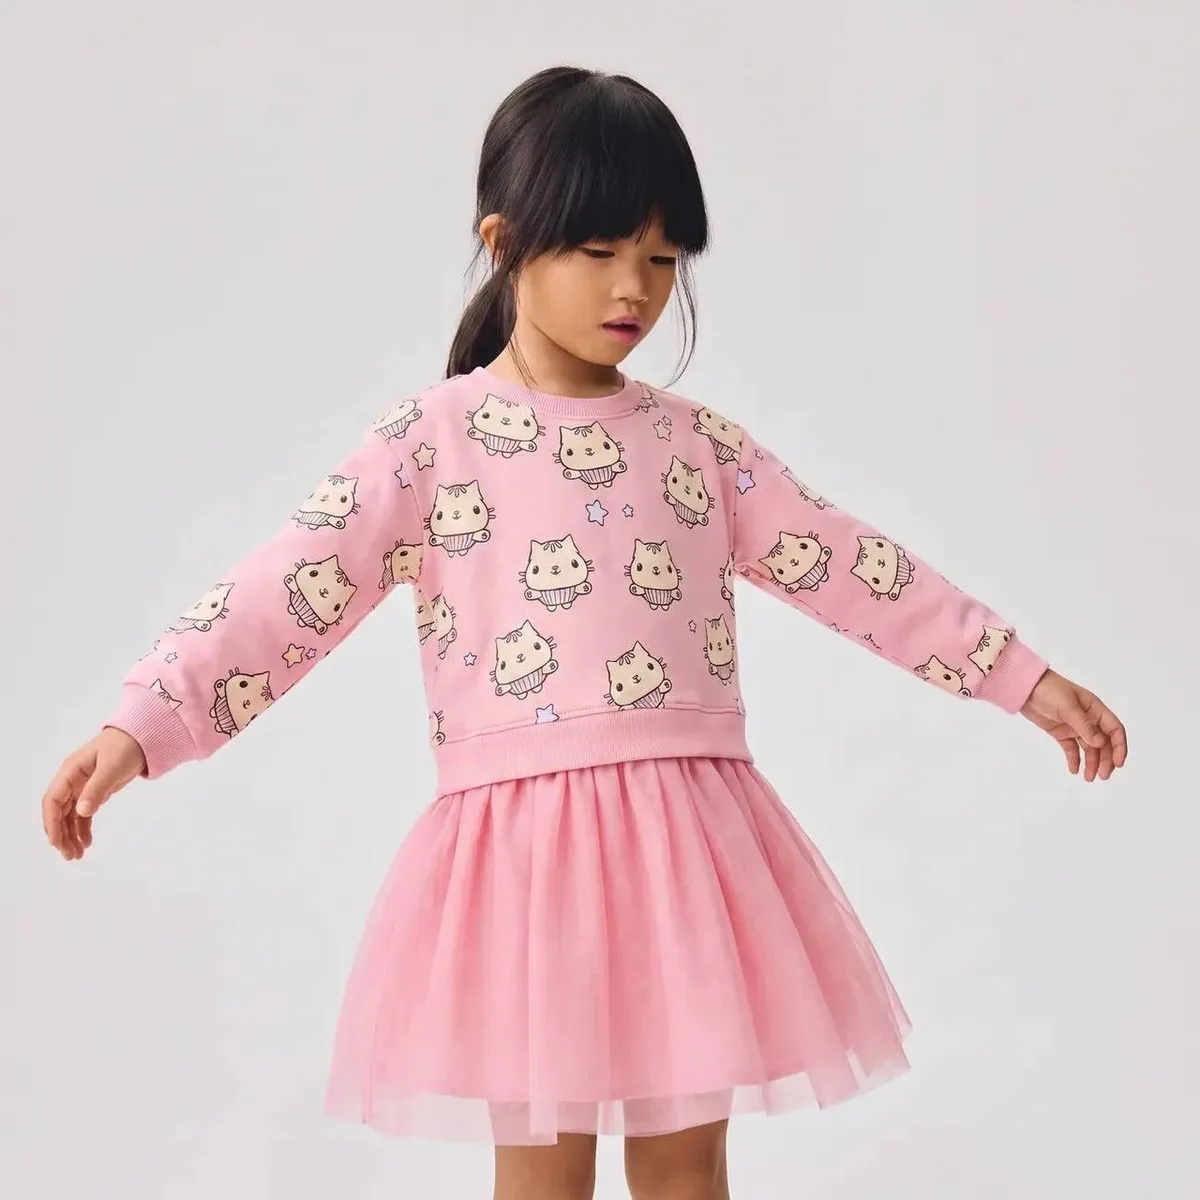
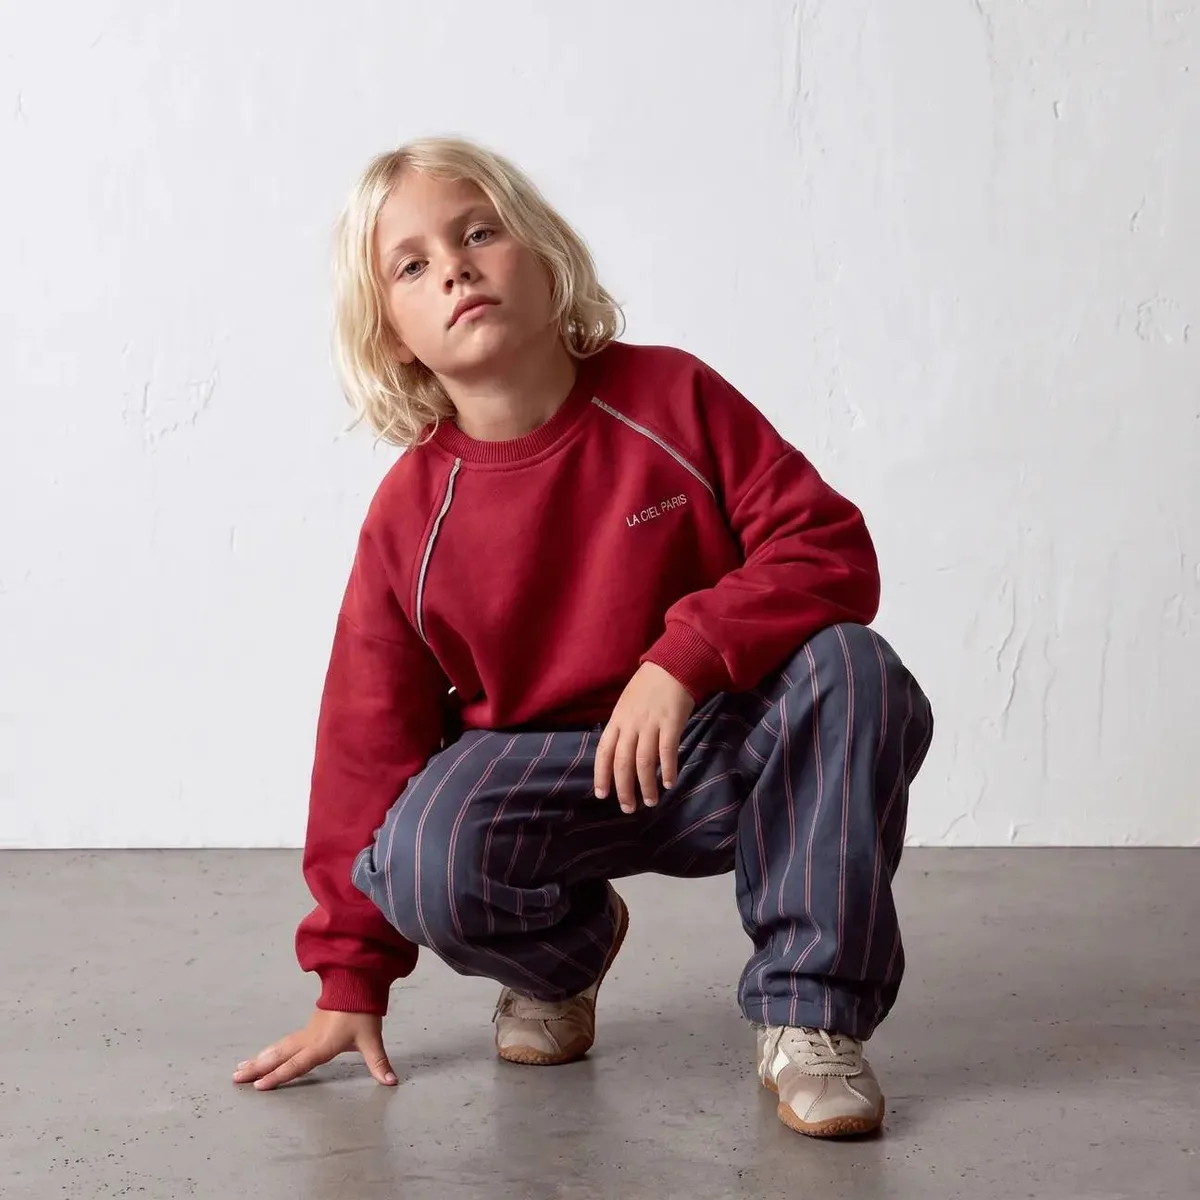
Retire la photo issue de la capture WhatsApp du hero
Remplace la photo du hero (ensemble sweat Digger, recadrée depuis une
capture d'écran WhatsApp) par la photo de la robe chat rose, déjà
utilisée dans la section Instagram — sans logo ni trace d'origine.
La galerie Instagram passe de 5 à 4 photos (celle-ci n'y est plus,
pour éviter la doublon avec le hero).

Claude-Session: https://claude.ai/code/session_01Sr554ceNJZbD3SWtGBiwSJ

diff --git a/lib/siteSettingsStore.js b/lib/siteSettingsStore.js
@@ -25,7 +25,7 @@ const DEFAULTS = {
     stat3Label: 'Livraison express',
     badgeTopText: 'Livraison en 48h',
     badgeBottomText: 'Retours gratuits 30j',
-    image: { url: '/images/hero/hero-digger.webp', key: null }, // {url, key} — si vide, le pictogramme "dress" par défaut est utilisé
+    image: { url: '/images/hero/hero-catdress.webp', key: null }, // {url, key} — si vide, le pictogramme "dress" par défaut est utilisé
   },
   promoBanner: {
     tag: 'Offre limitée',
@@ -41,7 +41,6 @@ const DEFAULTS = {
       { url: '/images/instagram/insta-2.webp', key: null },
       { url: '/images/instagram/insta-3.webp', key: null },
       { url: '/images/instagram/insta-4.webp', key: null },
-      { url: '/images/instagram/insta-5.webp', key: null },
     ], // jusqu'à 6 {url, key} — sinon les pictogrammes par défaut sont utilisés
   },
 };
